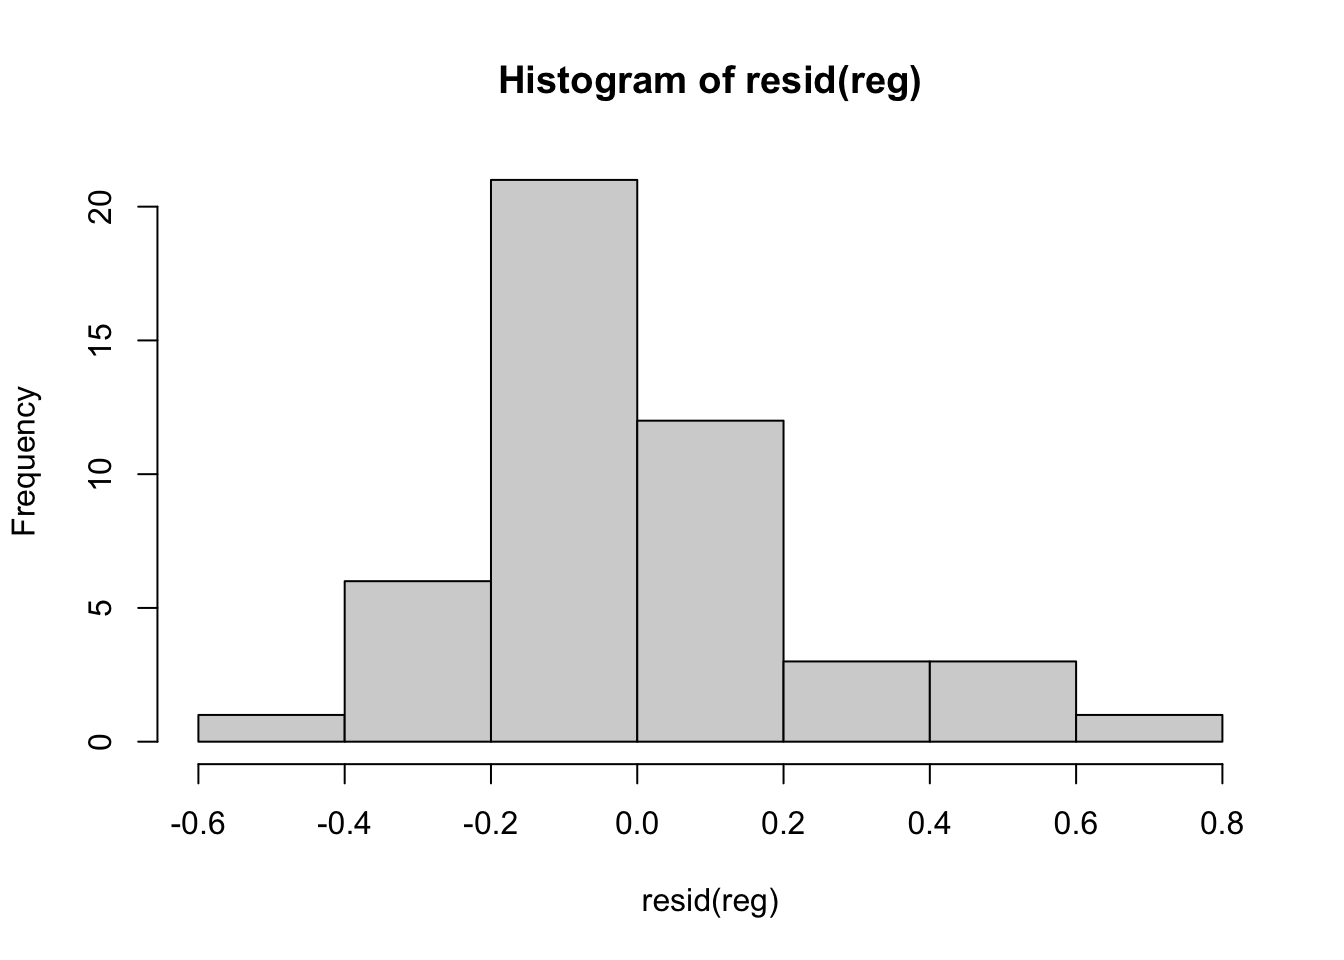
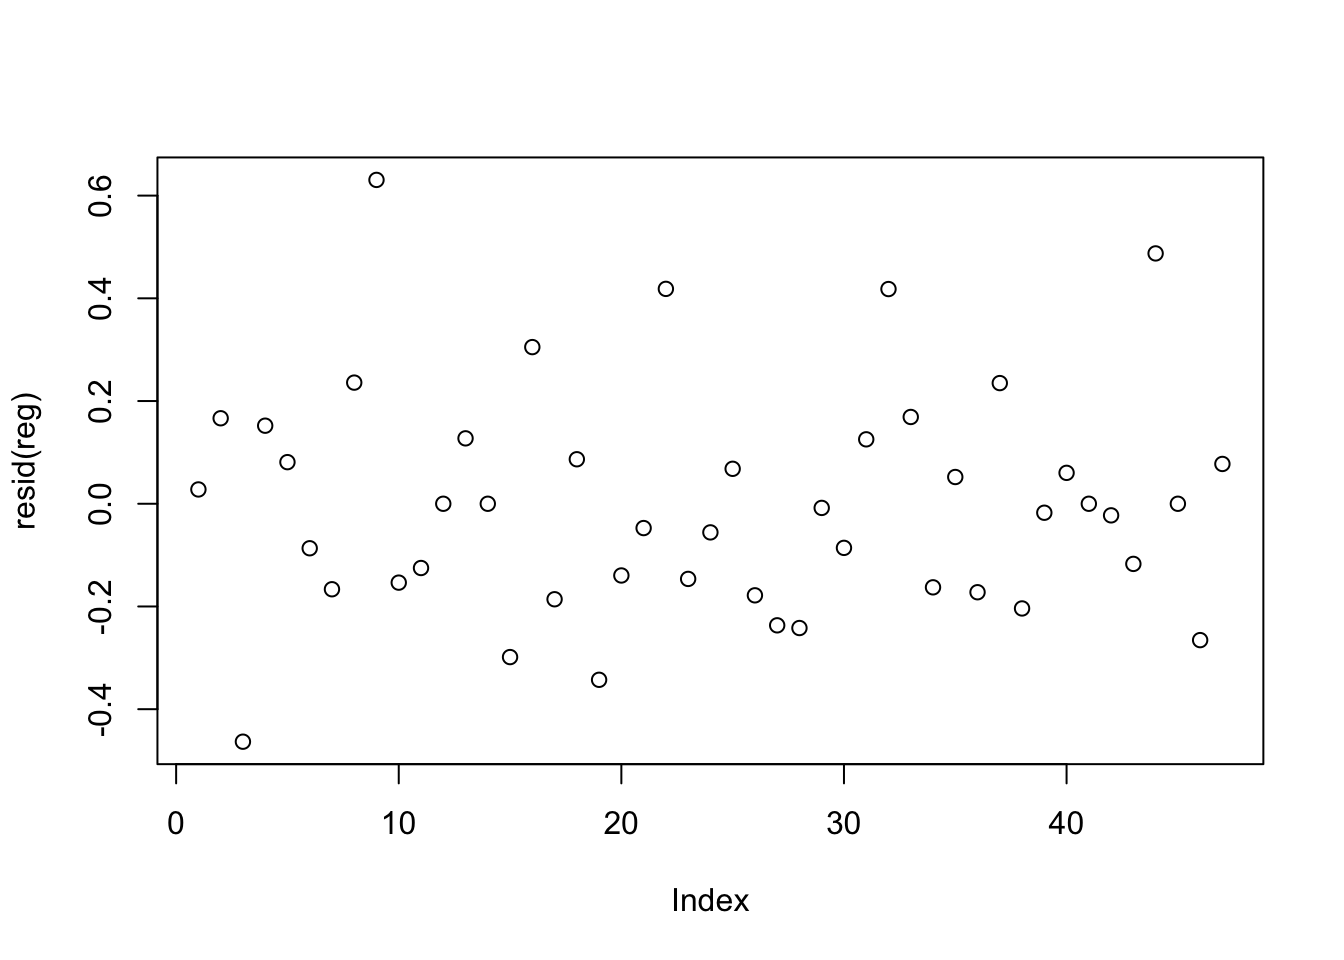
Fix sleepy plot choice
Obviously the hist is normal, need to _plot_ resids.

diff --git a/docs/index.html b/docs/index.html
@@ -260,7 +260,7 @@ window.Quarto = {
 
 <div class="quarto-listing quarto-listing-container-default" id="listing-listing">
 <div class="list quarto-listing-default">
-<div class="quarto-post image-right" data-index="0" data-categories="cixzdGF0cyxsbG0sYWksZ3B0" data-listing-date-sort="1756162800000" data-listing-file-modified-sort="1756244968298" data-listing-date-modified-sort="NaN" data-listing-reading-time-sort="7" data-listing-word-count-sort="1383">
+<div class="quarto-post image-right" data-index="0" data-categories="cixzdGF0cyxsbG0sYWksZ3B0" data-listing-date-sort="1756162800000" data-listing-file-modified-sort="1756277808400" data-listing-date-modified-sort="NaN" data-listing-reading-time-sort="7" data-listing-word-count-sort="1383">
 <div class="thumbnail">
 <p><a href="./posts/gpt-params/index.html" class="no-external"></a></p><a href="./posts/gpt-params/index.html" class="no-external">
 <p class="card-img-top"><img src="posts/gpt-params/index_files/figure-html/fig-mmlu-params-1.png"  class="thumbnail-image card-img"/></p>

diff --git a/docs/posts/gpt-params/index.html b/docs/posts/gpt-params/index.html
@@ -700,7 +700,7 @@ F-statistic: 11.45 on 18 and 28 DF,  p-value: 1.528e-08</code></pre>
 <div class="cell">
 <details class="code-fold">
 <summary>Code</summary>
-<div class="sourceCode cell-code" id="cb5"><pre class="sourceCode r code-with-copy"><code class="sourceCode r"><span id="cb5-1"><a href="#cb5-1" aria-hidden="true" tabindex="-1"></a><span class="fu">hist</span>(<span class="fu">resid</span>(reg))</span></code><button title="Copy to Clipboard" class="code-copy-button"><i class="bi"></i></button></pre></div>
+<div class="sourceCode cell-code" id="cb5"><pre class="sourceCode r code-with-copy"><code class="sourceCode r"><span id="cb5-1"><a href="#cb5-1" aria-hidden="true" tabindex="-1"></a><span class="fu">plot</span>(<span class="fu">resid</span>(reg))</span></code><button title="Copy to Clipboard" class="code-copy-button"><i class="bi"></i></button></pre></div>
 </details>
 <div class="cell-output-display">
 <div id="fig-resid" class="quarto-float quarto-figure quarto-figure-center anchored">

diff --git a/docs/posts/proxy/index.html b/docs/posts/proxy/index.html
@@ -251,7 +251,7 @@ gtag('config', 'G-QC160P51EN', { 'anonymize_ip': true});
 <section id="python-2" class="level2">
 <h2 class="anchored" data-anchor-id="python-2">Python 2</h2>
 <p>This works in Python 2.6 and 2.7. In Python 3 the principles are the same but <code>urllib</code> has been reorganized.</p>
-<div id="5562d557" class="cell">
+<div id="350c17bc" class="cell">
 <div class="sourceCode cell-code" id="cb2"><pre class="sourceCode python code-with-copy"><code class="sourceCode python"><span id="cb2-1"><a href="#cb2-1" aria-hidden="true" tabindex="-1"></a>  <span class="im">import</span> logging</span>
 <span id="cb2-2"><a href="#cb2-2" aria-hidden="true" tabindex="-1"></a>  <span class="im">import</span> ssl</span>
 <span id="cb2-3"><a href="#cb2-3" aria-hidden="true" tabindex="-1"></a>  <span class="im">import</span> urllib2</span>